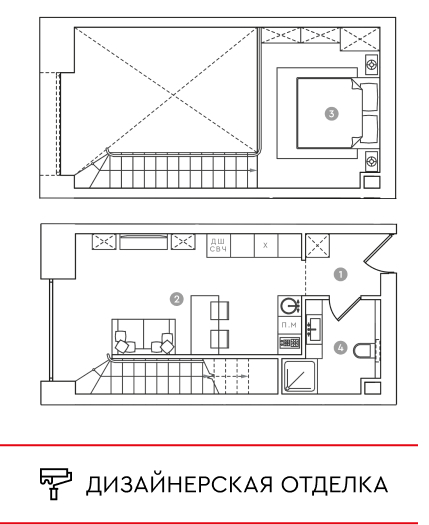
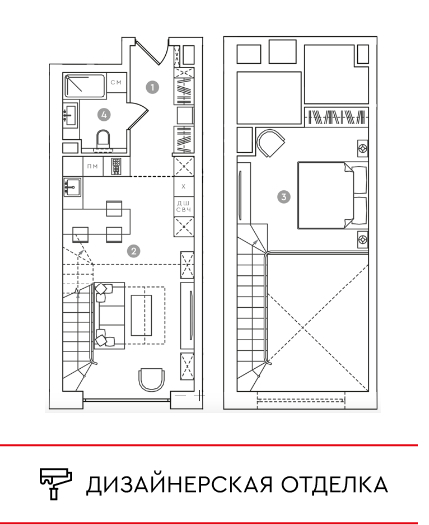
Layout update

Changed region(s): [[0.0909, 0.0305, 0.9394, 0.7924]]

diff --git a/index.html b/index.html
@@ -860,7 +860,7 @@
                           <ul class="marked-list">
                             <li>место для релакса у&nbsp;камина</li>
                             <li>
-                              большую кухню-гостиную для проведения различных
+                              большая кухня-гостиная для проведения различных
                               мероприятий и&nbsp;мастер-классов
                             </li>
                             <li>
@@ -2368,7 +2368,7 @@
                             <li class="page-text">Балкон - 8.36 м²</li>
                             <li class="page-text">Балкон - 8.36 м²</li>
                           </ul>
-                          <span class="price-block">10 369 320 ₽</span>
+                          <span class="price-block">27 085 000 ₽</span>
                         </div>
                       </div>
                       <div class="double-cta">
@@ -2559,16 +2559,17 @@
                             Евро-3 68.61 м²
                           </h1>
                           <ul class="layout-params-list">
-                            <li class="page-text">Холл — 5.34 м²</li>
+                            <li class="page-text">Холл — 9.99 м²</li>
                             <li class="page-text">
-                              Кухня-гостиная&nbsp;— 24.93&nbsp;м²
+                              Кухня-гостиная&nbsp;— 22.53&nbsp;м²
                             </li>
-                            <li class="page-text">Спальня — 13.43 м²</li>
-                            <li class="page-text">Спальня — 16.59 м²</li>
-                            <li class="page-text">Ванная — 2.82 м²</li>
-                            <li class="page-text">Ванная — 5.5 м²</li>
+                            <li class="page-text">Спальня — 15.72 м²</li>
+                            <li class="page-text">Спальня — 14.16 м²</li>
+                            <li class="page-text">Гардероб — 4.25 м²</li>
+                            <li class="page-text">Ванная — 4.4 м²</li>
+                            <li class="page-text">Ванная — 2.61 м²</li>
                           </ul>
-                          <span class="price-block">37 788 400 ₽</span>
+                          <span class="price-block">53 554 800 ₽</span>
                         </div>
                       </div>
                       <div class="double-cta">
